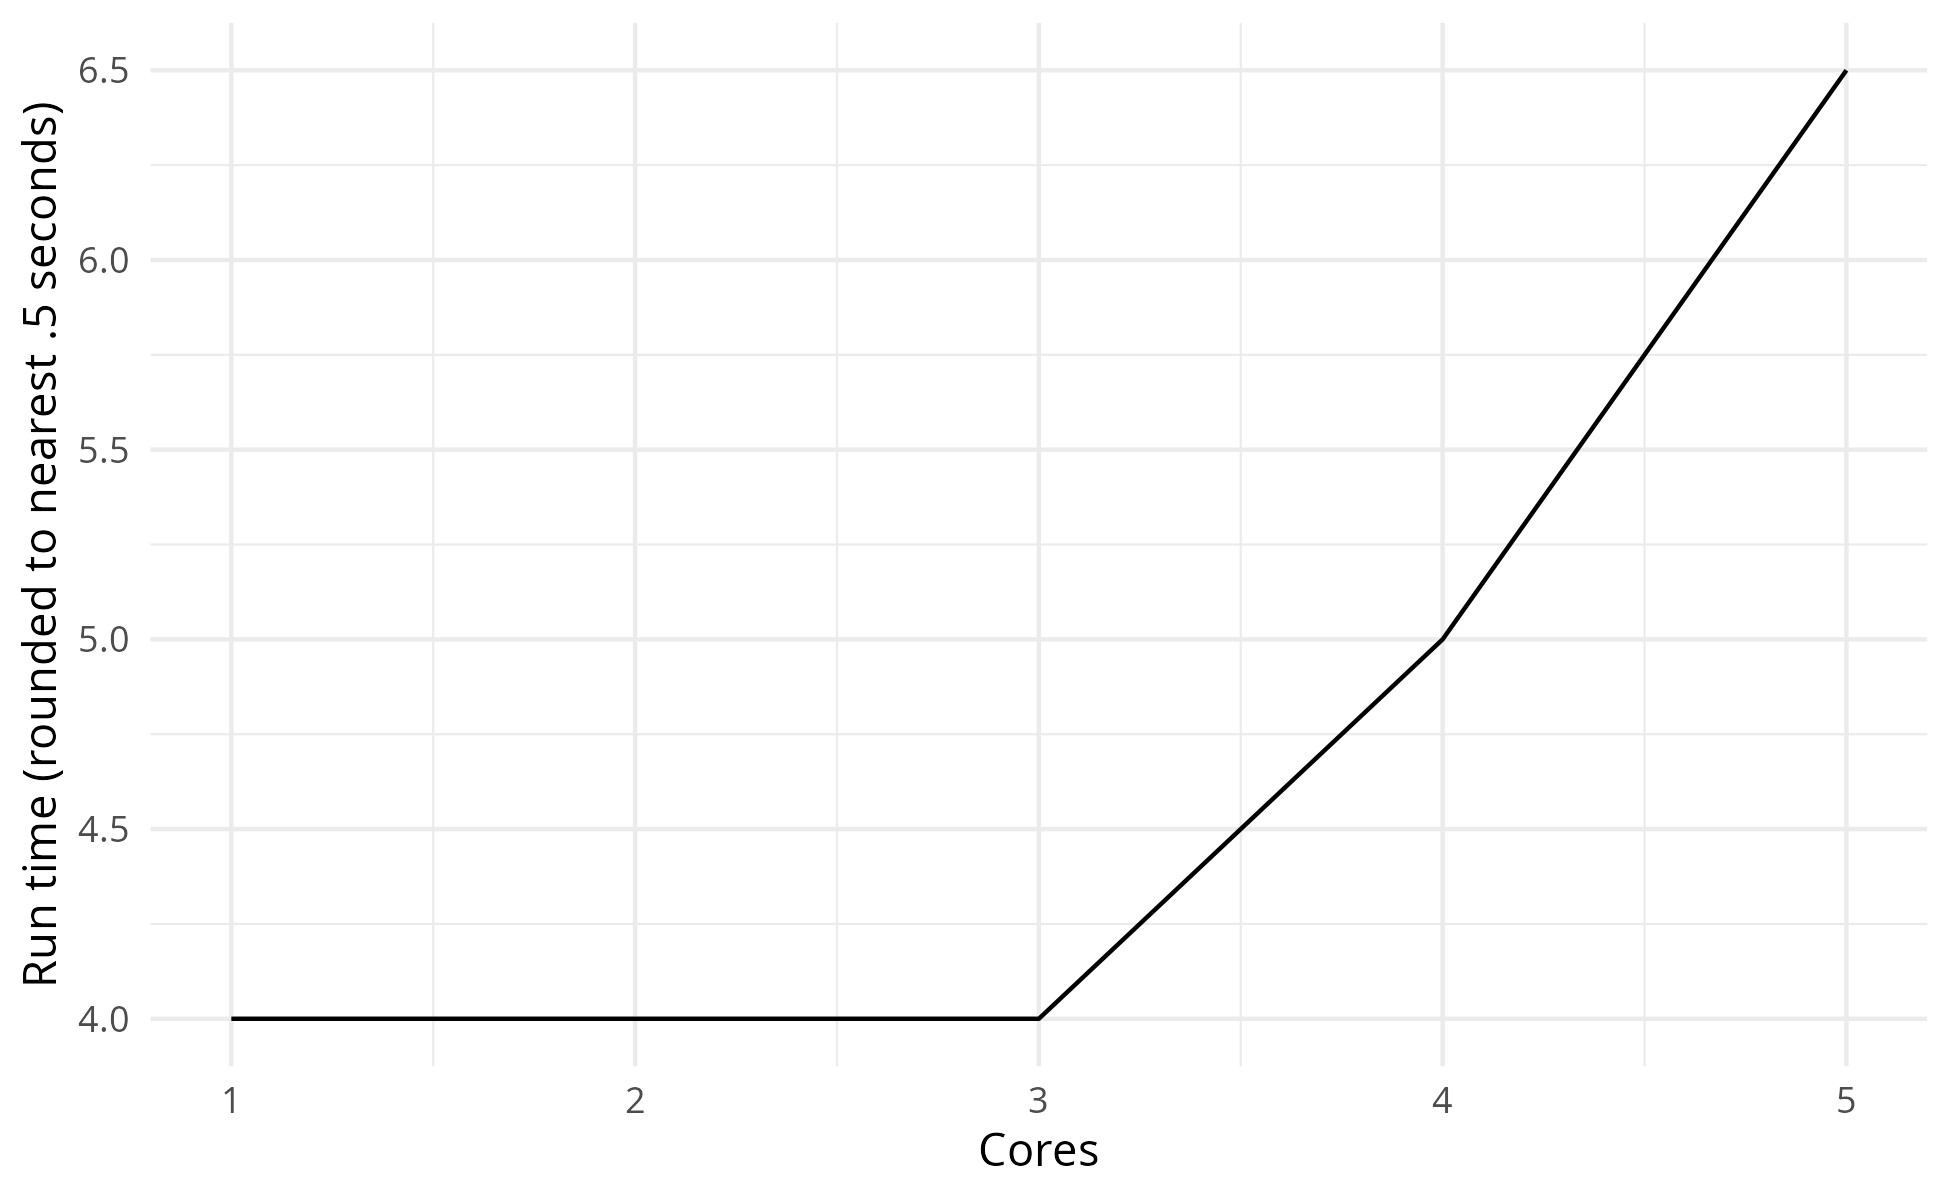
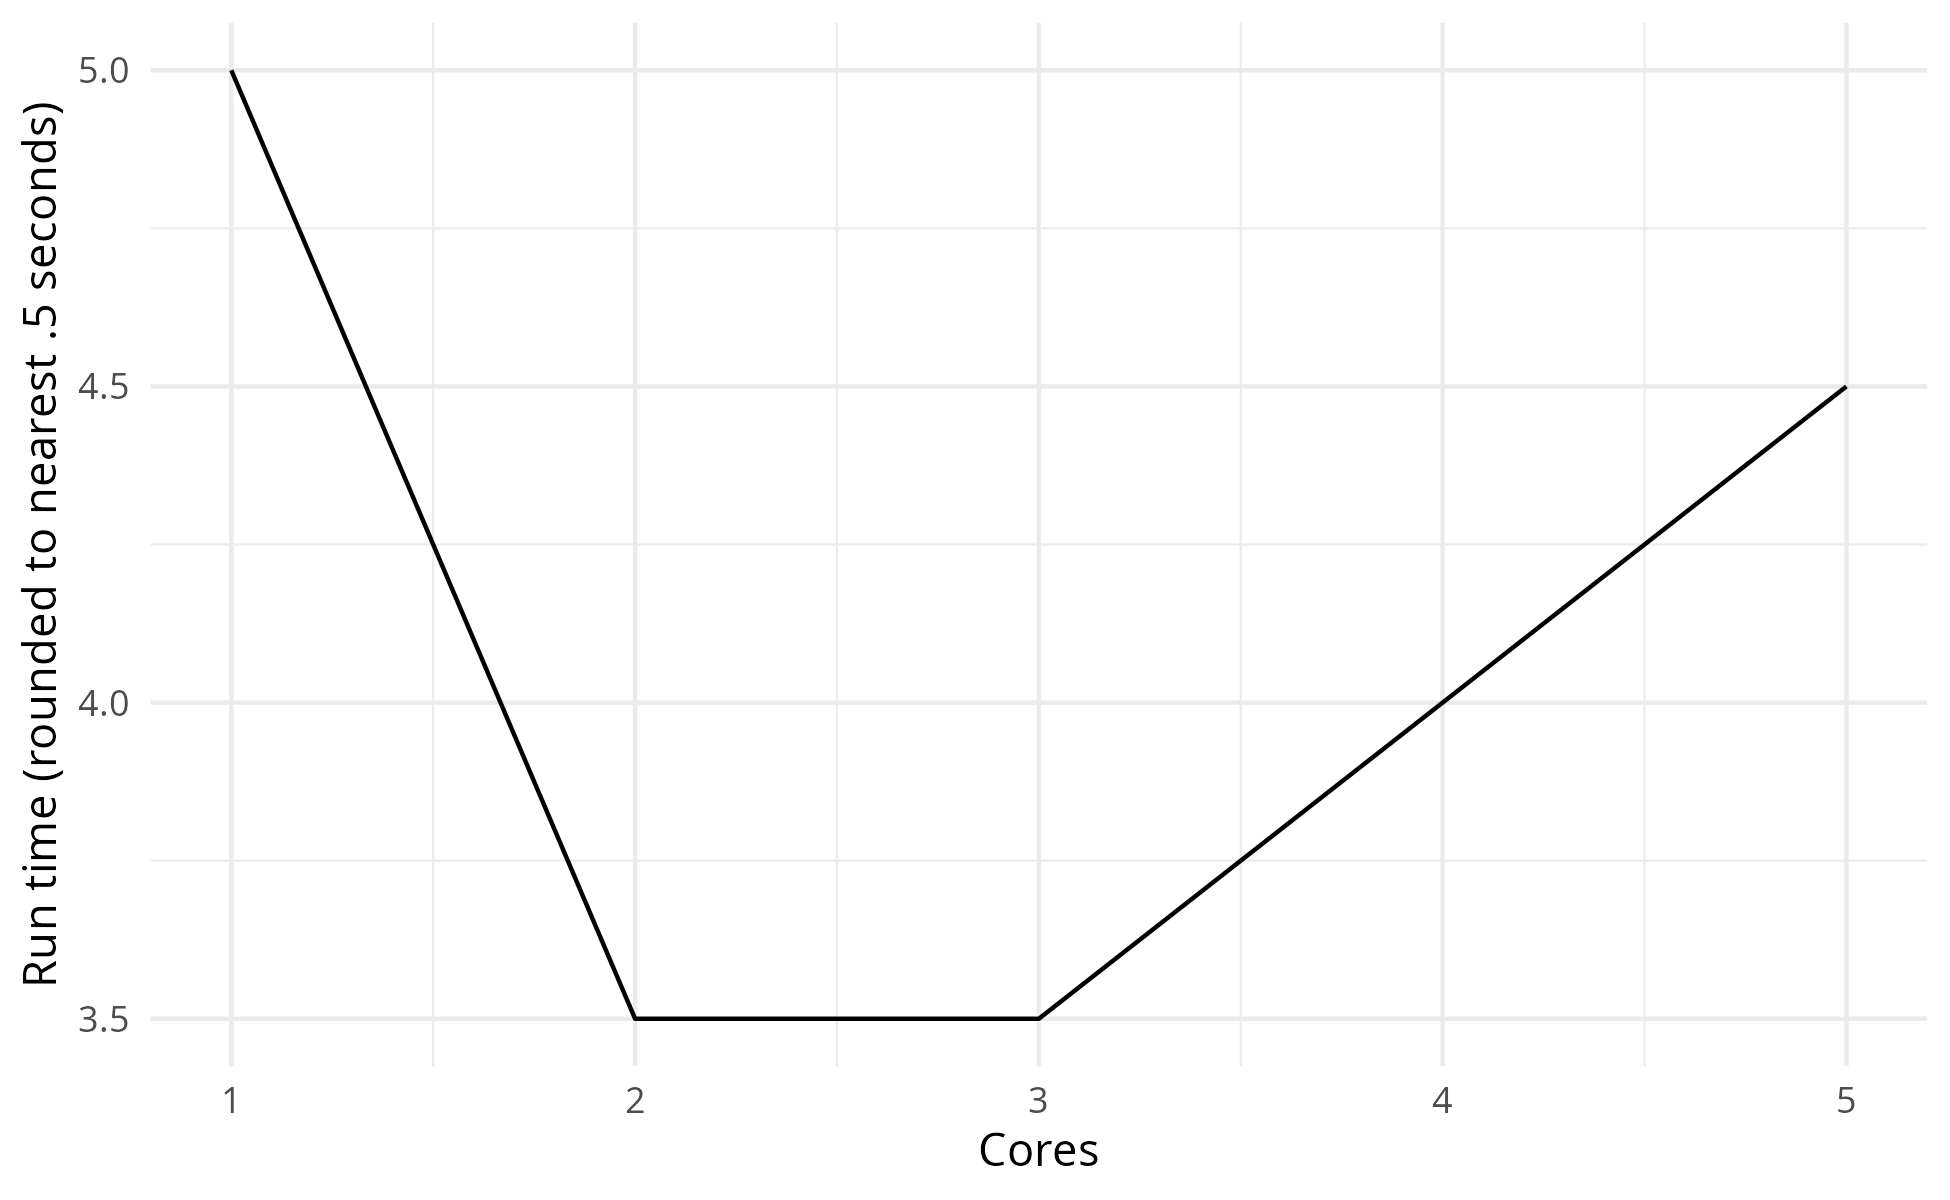
feat(paper): add mock paper, list figures in Rmd, re-run all Rmd, update README times

diff --git a/mock_paper.md b/mock_paper.md
@@ -1,0 +1,53 @@
+# Mock paper
+
+## Introduction
+
+Lorem ipsum dolor sit amet, consectetur adipiscing elit. Nunc ornare metus vel arcu tincidunt, ut viverra elit vulputate. Aenean et gravida ex. Cras arcu orci, pharetra vitae pulvinar sed, molestie quis augue. Maecenas mattis nulla a mauris vestibulum, vel auctor erat blandit. Curabitur et purus varius, rhoncus felis mattis, sollicitudin est. Orci varius natoque penatibus et magnis dis parturient montes, nascetur ridiculus mus. Nullam vitae nunc ac metus cursus pharetra.
+
+Nunc nisi sem, congue sed risus nec, aliquam molestie tortor. Pellentesque imperdiet metus in velit eleifend convallis. Maecenas tincidunt consequat urna eget dignissim. Quisque porta lorem eget elit mattis, sit amet sollicitudin quam pharetra. Donec dapibus lacus leo, sit amet ornare lacus accumsan nec. Maecenas eu nunc nec purus sollicitudin gravida. Nunc non lobortis eros, id rhoncus arcu.
+
+## Methods
+
+Nam dui enim, porttitor eget tempus ut, placerat at lacus. Mauris ut mauris eu diam egestas tempus. Donec felis neque, iaculis et orci sit amet, finibus aliquam odio. Suspendisse potenti. Etiam urna risus, aliquet eget bibendum eget, tristique sit amet risus. Nunc dolor velit, ultrices eu luctus ac, facilisis pellentesque sapien. Curabitur at sapien ex. Nam accumsan mi sem, venenatis maximus justo mattis vel. Vestibulum a urna in leo facilisis mattis lacinia ac augue.
+
+## Results
+
+Nunc massa sapien, congue eget sapien mattis, maximus condimentum libero. Etiam ac eros vitae diam convallis laoreet. Nam porttitor interdum auctor. Aenean sit amet elit fringilla, lobortis sapien a, interdum enim. Nullam eget erat a diam sollicitudin congue. Phasellus et cursus ipsum. Aliquam laoreet imperdiet dolor vitae gravida. Maecenas bibendum justo nunc, vitae venenatis purus malesuada a. Sed augue est, porta ac sem sit amet, interdum rutrum erat. Class aptent taciti sociosqu ad litora torquent per conubia nostra, per inceptos himenaeos. Phasellus ante justo, consequat ullamcorper mauris et, malesuada maximus nisl. Nulla eget diam non arcu accumsan rutrum. Aenean et eleifend leo. Cras facilisis laoreet erat a efficitur. Duis tempus rutrum ornare.
+
+![Figure 1](outputs/spread_arrivals.png)
+
+Vestibulum pharetra tristique porta. Vivamus finibus pharetra purus eu malesuada. Class aptent taciti sociosqu ad litora torquent per conubia nostra, per inceptos himenaeos. Pellentesque interdum nisl est. Vestibulum at est convallis, venenatis metus a, pretium arcu. Phasellus luctus nibh felis, eget iaculis eros ornare eget. Duis id pulvinar odio. Ut non purus euismod, euismod sapien at, pharetra quam. Cras mollis turpis nibh, eget finibus quam imperdiet non. Sed placerat, nisl quis posuere sagittis, ante erat dignissim sem, id maximus lorem tortor efficitur nisi.
+
+![Figure 2](outputs/scenario_nurse_util.png)
+
+![Figure 3](outputs/scenario_nurse_wait.png)
+
+Nunc at gravida mauris, non euismod augue. Donec a tincidunt ligula, non tincidunt enim. Etiam iaculis augue eu ipsum interdum porta. Nam nec bibendum ante, sed viverra libero. Orci varius natoque penatibus et magnis dis parturient montes, nascetur ridiculus mus. Quisque gravida nunc et tellus tempus, vel fermentum libero venenatis. Sed quis iaculis metus, quis fringilla erat. Donec ornare feugiat lorem fringilla lacinia. Proin non sem bibendum, auctor orci at, hendrerit sapien. Duis eleifend tellus id diam ornare tristique. Phasellus scelerisque eleifend ante luctus ullamcorper. Fusce eget nunc a orci elementum ultrices. Sed consectetur ante et augue semper blandit.
+
+![Figure 4](outputs/sensitivity_consult_time.png)
+
+## Discussion
+
+Phasellus hendrerit est ut lacinia auctor. Vestibulum fermentum gravida eleifend. Integer convallis risus sed tempor ullamcorper. Integer vulputate facilisis tellus, a pretium tortor blandit et. Donec a congue dui, nec auctor lacus. Nam eget fringilla ligula, non aliquet urna. Sed rhoncus dapibus tincidunt. Suspendisse ullamcorper nunc at volutpat pulvinar. Sed vitae justo ipsum. Praesent laoreet turpis sem, a semper elit luctus nec. Donec imperdiet orci eu erat pulvinar tempus. Duis mollis dignissim gravida.
+
+Integer efficitur interdum risus, non imperdiet nisi malesuada nec. Vestibulum sapien justo, congue sed augue at, fermentum pulvinar mi. Mauris ullamcorper ex arcu, at sollicitudin purus tristique ac. Praesent a nibh eleifend, porta ante vitae, iaculis quam. Phasellus id dui placerat, egestas enim et, condimentum neque. Donec at justo et ante congue volutpat a quis leo. Cras ac eros a lorem eleifend iaculis.
+
+## Appendices
+
+### Appendix A. Choosing distributions
+
+![Figure A.1](outputs/input_model_hist_dist_iat.png)
+
+![Figure A.2](outputs/input_model_hist_dist_service.png)
+
+### Appendix B. Determining length of warm-up period
+
+![Figure B.1](outputs/choose_param_time_series.png)
+
+### Appendix C. Determining appropriate number of replications
+
+![Figure C.1](outputs/reps_algorithm_wait_time.png)
+
+![Figure C.2](outputs/reps_algorithm_serve_time.png)
+
+![Figure C.3](outputs/reps_algorithm_utilisation.png)

diff --git a/rmarkdown/choosing_cores.md b/rmarkdown/choosing_cores.md
@@ -1,7 +1,7 @@
 Choosing cores
 ================
 Amy Heather
-2025-03-18
+2025-05-20
 
 - [Set up](#set-up)
 - [Run time with varying number of CPU
@@ -32,7 +32,7 @@ devtools::install()
 ```
 
     ## 
-    ## ── R CMD build ─────────────────────────────────────────────────
+    ## ── R CMD build ─────────────────────────────────────────────────────────────────────
     ##      checking for file ‘/home/amy/Documents/stars/rap_template_r_des/DESCRIPTION’ ...  ✔  checking for file ‘/home/amy/Documents/stars/rap_template_r_des/DESCRIPTION’
     ##   ─  preparing ‘simulation’:
     ##    checking DESCRIPTION meta-information ...  ✔  checking DESCRIPTION meta-information
@@ -42,7 +42,7 @@ devtools::install()
     ##   ─  building ‘simulation_0.1.0.tar.gz’
     ##      
     ## Running /opt/R/4.4.1/lib/R/bin/R CMD INSTALL \
-    ##   /tmp/Rtmp2ijted/simulation_0.1.0.tar.gz --install-tests 
+    ##   /tmp/RtmpXanJMg/simulation_0.1.0.tar.gz --install-tests 
     ## * installing to library ‘/home/amy/.cache/R/renv/library/rap_template_r_des-cd7d6844/linux-ubuntu-noble/R-4.4/x86_64-pc-linux-gnu’
     ## * installing *source* package ‘simulation’ ...
     ## ** using staged installation
@@ -216,4 +216,4 @@ seconds <- as.integer(runtime %% 60L)
 cat(sprintf("Notebook run time: %dm %ds", minutes, seconds))
 ```
 
-    ## Notebook run time: 2m 14s
+    ## Notebook run time: 2m 10s

diff --git a/README.md b/README.md
@@ -222,12 +222,12 @@ repo/
 
 Run times from our analyses (on Intel Core i7-12700H, 32GB RAM, Ubuntu 24.04.1):
 
-* `analysis.Rmd`: 2m 2s
-* `choosing_cores.Rmd`: 2m 14s
-* `choosing_replications.Rmd`: 1m 33s
-* `choosing_warmup.Rmd`: 2s
+* `analysis.Rmd`: 2m 6s
+* `choosing_cores.Rmd`: 2m 10s
+* `choosing_replications.Rmd`: 1m 38s
+* `choosing_warmup.Rmd`: 3s
 * `generate_exp_results.Rmd`: 2s
-* `input_modelling.Rmd`: 14s
+* `input_modelling.Rmd`: 13s
 
 There are also two notebooks illustrating logging functionality (`logs.Rmd`) and about the impact of using `set_attributes()` and `get_attributes` (`using_set_attributes.Rmd`).
 
@@ -255,13 +255,13 @@ If you use this repository, please cite either the GitHub repository or Zenodo:
 
 <br>
 
-## 📜 Licence
+## Licence
 
 MIT Licence. See `LICENSE.md` for details.
 
 <br>
 
-## 👨👨👧 Acknowledgements
+## Acknowledgements
 
 This repository was developed with thanks to a few others sources. These are acknowledged throughout in the relevant scipts, and also summarised here:
 
@@ -272,6 +272,6 @@ This repository was developed with thanks to a few others sources. These are ack
 
 <br>
 
-## 💰 Funding
+## Funding
 
 This project was developed as part of the project STARS: Sharing Tools and Artefacts for Reproducible Simulations. It is supported by the Medical Research Council [grant number [MR/Z503915/1](https://gtr.ukri.org/projects?ref=MR%2FZ503915%2F1)].

diff --git a/rmarkdown/analysis.md b/rmarkdown/analysis.md
@@ -1,7 +1,7 @@
 Analysis
 ================
 Amy Heather
-2025-03-18
+2025-05-20
 
 - [Set up](#set-up)
 - [Default run](#default-run)
@@ -28,6 +28,13 @@ can be rendered and displayed within the output `.md` file, even if we
 had not specifically saved them). These are viewed using
 `include_graphics()`, which must be the last command in the cell (or
 last in the plotting function).
+
+Some of these are used in the paper (`mock_paper.md`) - see below:
+
+- **Figure 1:** `outputs/spread_arrivals.png`
+- **Figure 2:** `outputs/scenario_nurse_util.png`
+- **Figure 3:** `outputs/scenario_nurse_wait.png`
+- **Figure 4:** `outputs/sensitivity_consult_time.png`
 
 The run time is provided at the end of the notebook.
 
@@ -391,7 +398,7 @@ print(table_latex)
 ```
 
     ## % latex table generated in R 4.4.1 by xtable 1.8-4 package
-    ## % Tue Mar 18 11:22:35 2025
+    ## % Tue May 20 11:26:47 2025
     ## \begin{table}[ht]
     ## \centering
     ## \begin{tabular}{rrllll}
@@ -647,7 +654,7 @@ print(sensitivity_table_latex)
 ```
 
     ## % latex table generated in R 4.4.1 by xtable 1.8-4 package
-    ## % Tue Mar 18 11:23:15 2025
+    ## % Tue May 20 11:27:28 2025
     ## \begin{table}[ht]
     ## \centering
     ## \begin{tabular}{rrl}
@@ -767,4 +774,4 @@ seconds <- as.integer(runtime %% 60L)
 cat(sprintf("Notebook run time: %dm %ds", minutes, seconds))
 ```
 
-    ## Notebook run time: 2m 2s
+    ## Notebook run time: 2m 6s

diff --git a/rmarkdown/choosing_replications.md b/rmarkdown/choosing_replications.md
@@ -1,7 +1,7 @@
 Choosing replications
 ================
 Amy Heather
-2025-03-21
+2025-05-20
 
 - [Set up](#set-up)
 - [Choosing the number of
@@ -25,6 +25,13 @@ can be rendered and displayed within the output `.md` file, even if we
 had not specifically saved them). These are viewed using
 `include_graphics()`, which must be the last command in the cell (or
 last in the plotting function).
+
+Some of these figures are used in the paper (`mock_paper.md`) - see
+below:
+
+- **Figure C.1:** `outputs/reps_algorithm_wait_time.png`
+- **Figure C.2:** `outputs/reps_algorithm_serve_time.png`
+- **Figure C.3:** `outputs/reps_algorithm_utilisation.png`
 
 The run time is provided at the end of the notebook.
 
@@ -574,4 +581,4 @@ seconds <- as.integer(runtime %% 60L)
 cat(sprintf("Notebook run time: %dm %ds", minutes, seconds))
 ```
 
-    ## Notebook run time: 1m 33s
+    ## Notebook run time: 1m 38s

diff --git a/rmarkdown/choosing_warmup.md b/rmarkdown/choosing_warmup.md
@@ -1,7 +1,7 @@
 Choosing warm-up length
 ================
 Amy Heather
-2025-03-18
+2025-05-20
 
 - [Set-up](#set-up)
 - [Determining appropriate warm-up
@@ -29,6 +29,11 @@ We should:
 - Use a **long run length** (i.e. 5-10 times actual planned run length).
 
 The run time is provided at the end of the document.
+
+Some of these figures are used in the paper (`mock_paper.md`) - see
+below:
+
+- **Figure B.1:** `outputs/choose_param_time_series.png`
 
 ## Set-up
 
@@ -123,4 +128,4 @@ seconds <- as.integer(runtime %% 60L)
 cat(sprintf("Notebook run time: %dm %ds", minutes, seconds))
 ```
 
-    ## Notebook run time: 0m 2s
+    ## Notebook run time: 0m 3s

diff --git a/rmarkdown/input_modelling.md b/rmarkdown/input_modelling.md
@@ -47,6 +47,12 @@ approach, as when testing lots of distributions using a tool it:
 - Overfitting - suggesting complex distributions even when **simpler are
   sufficient**.
 
+Some of these figures are used in the paper (`mock_paper.md`) - see
+below:
+
+- **Figure A.1:** `outputs/input_model_hist_dist_iat.png`
+- **Figure A.2:** `outputs/input_model_hist_dist_service.png`
+
 ## Set-up
 
 ``` r
@@ -609,4 +615,4 @@ seconds <- as.integer(runtime %% 60L)
 cat(sprintf("Notebook run time: %dm %ds", minutes, seconds))
 ```
 
-    ## Notebook run time: 0m 14s
+    ## Notebook run time: 0m 13s

diff --git a/rmarkdown/using_set_attributes.md b/rmarkdown/using_set_attributes.md
@@ -1,7 +1,7 @@
 Using `set_attributes()`
 ================
 Amy Heather
-2025-03-18
+2025-05-20
 
 - [Original model](#original-model)
 - [Model with record of allocation to a nurse

diff --git a/rmarkdown/generate_exp_results.md b/rmarkdown/generate_exp_results.md
@@ -1,7 +1,7 @@
 Generate expected results
 ================
 Amy Heather
-2025-03-18
+2025-05-20
 
 - [Set-up](#set-up)
 - [Base case](#base-case)

diff --git a/rmarkdown/logs.md b/rmarkdown/logs.md
@@ -1,7 +1,7 @@
 Logs
 ================
 Amy Heather
-2025-03-18
+2025-05-20
 
 - [Set up](#set-up)
 - [Simulation run with logs printed to the
